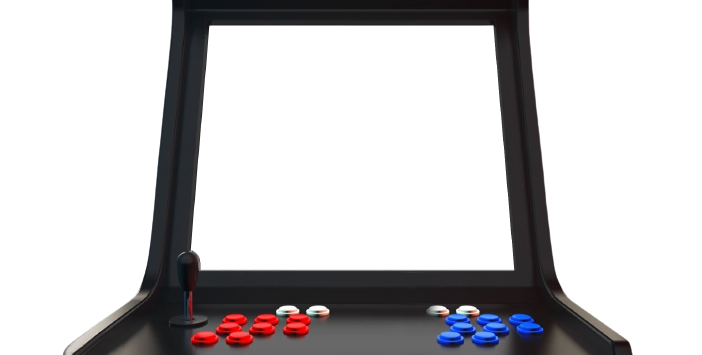
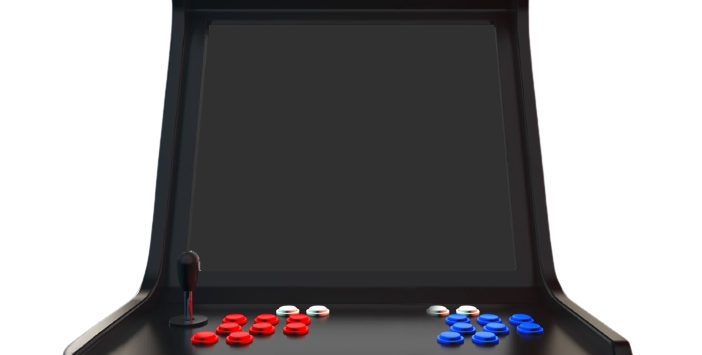
snake

diff --git a/app_games/static/app_games/flappy_bird/script.js b/app_games/static/app_games/flappy_bird/script.js
@@ -1,0 +1,69 @@
+// Variables
+var canvas = document.getElementById("canvas");
+var ctx = canvas.getContext("2d");
+var score = 0;
+var intervalId;
+var pipes = [];
+var bird = {
+  x: 50,
+  y: canvas.height / 2,
+  width: 40,
+  height: 30,
+  speed: 0,
+  gravity: 0.3,
+  jumpForce: 6,
+  draw: function() {
+    ctx.fillStyle = "#FF6A6A";
+    ctx.fillRect(this.x, this.y, this.width, this.height);
+  },
+  jump: function() {
+    this.speed = -this.jumpForce;
+  },
+  update: function() {
+    this.speed += this.gravity;
+    this.y += this.speed;
+  }
+};
+
+// Functions
+function drawBackground() {
+  ctx.fillStyle = "#70C5CE";
+  ctx.fillRect(0, 0, canvas.width, canvas.height);
+}
+
+function drawScore() {
+  ctx.fillStyle = "#000";
+  ctx.font = "24px Arial";
+  ctx.fillText("Score: " + score, 10, 30);
+}
+
+function drawPipes() {
+  for (var i = 0; i < pipes.length; i++) {
+    var pipe = pipes[i];
+    ctx.fillStyle = "#2ECC71";
+    ctx.fillRect(pipe.x, 0, pipe.width, pipe.heightTop);
+    ctx.fillRect(pipe.x, pipe.yBottom, pipe.width, pipe.heightBottom);
+    pipe.x -= 2;
+    if (pipe.x + pipe.width < 0) {
+      pipes.splice(i, 1);
+    }
+    if (pipe.x + pipe.width == bird.x) {
+      score++;
+    }
+  }
+}
+
+function generatePipes() {
+  var pipeSpace = 100;
+  var minHeightTop = 50;
+  var maxHeightTop = canvas.height - pipeSpace - minHeightTop;
+  var heightTop = Math.floor(Math.random() * (maxHeightTop - minHeightTop + 1)) + minHeightTop;
+  var heightBottom = canvas.height - heightTop - pipeSpace;
+  var pipe = {
+    x: canvas.width,
+    yBottom: canvas.height - heightBottom,
+    width: 60,
+    heightTop: heightTop,
+    heightBottom: heightBottom
+  };
+  pipes.push

diff --git a/app_games/static/app_games/snake/js.js b/app_games/static/app_games/snake/js.js
@@ -9,8 +9,8 @@ fps = 70,
 snake = [],
 snakeLength = 5,
 cellSize = 20,
-snakeColor = '#3498db',
-foodColor = '#ff3636',
+snakeColor = '#FF33FF',
+foodColor = '#FFFF33',
 foodX = [],
 foodY = [],
 food = {
@@ -192,7 +192,7 @@ function game(){
 	};
 
    ctx.beginPath();
-   setBackground('#fff', '#eee');
+   setBackground('#303030', '#3A3A3A');
    scoreIs.innerHTML = score;
    drawSnake();
    drawFood();

diff --git a/app_games/templates/app_games/snake.html b/app_games/templates/app_games/snake.html
@@ -12,7 +12,7 @@
 	{% csrf_token %}
 	<div class="score" id="score">0</div>
 	
-		<canvas id="canvas" height="599px" width="599px" style="margin-top:115px;"></canvas>
+		<canvas id="canvas" height="580px" width="581px" style="margin-top:115px;"></canvas>
 	</div>
 <script type="application/javascript" src="{% static 'app_games/snake/js.js'%}"></script>
 {% endblock %}

diff --git a/app_games/templates/app_games/flappy-bird.html b/app_games/templates/app_games/flappy-bird.html
@@ -1,0 +1,12 @@
+<!DOCTYPE html>
+<html>
+  <head>
+    <title>Flappy Bird</title>
+    <meta charset="UTF-8">
+    <link rel="stylesheet" href="{% static 'app_games/flappy_bird/style.css'%}">
+  </head>
+  <body>
+    <canvas id="canvas" width="288" height="512"></canvas>
+    <script src="{% static 'app_games/flappy_bird/scripts.js'%}"></script>
+  </body>
+</html>

diff --git a/app_games/static/app_games/flappy_bird/style.css b/app_games/static/app_games/flappy_bird/style.css
@@ -1,0 +1,10 @@
+body {
+    margin: 0;
+    padding: 0;
+  }
+  
+  canvas {
+    border: 1px solid #000;
+    display: block;
+    margin: 0 auto;
+  }
